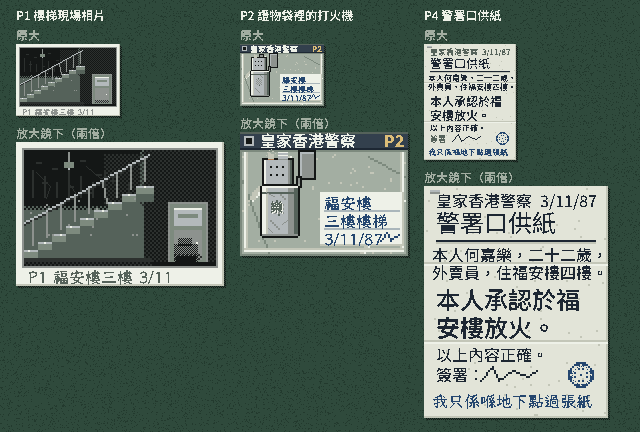
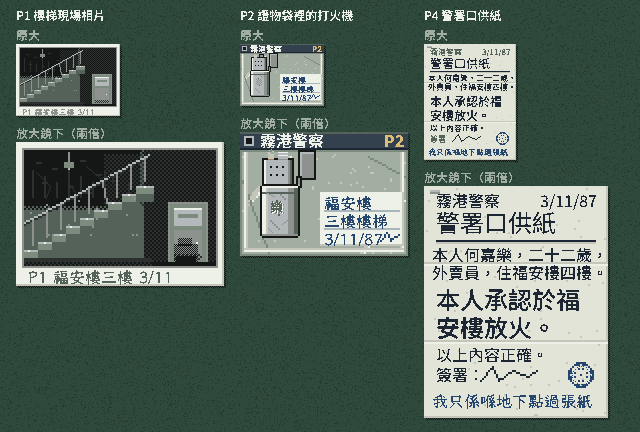
Replace real-world names with the fictional city's own
The story is set in the fictional city of 霧港, but the style frame
carried real institutions: the evidence bag and the confession were
printed "Royal Hong Kong Police", and the court emblem was the British
royal arms. They now read 霧港警察, and the emblem is the city court's
own seal: a lighthouse over waves between olive branches.

docs/06-art.md section 8 and CLAUDE.md now forbid real place names,
institutions and emblems on screen, so this does not recur.

Claude-Session: https://claude.ai/code/session_01Hit9pwhxA19ACKMzXL3iGE

diff --git a/art/style-frame/frame.js b/art/style-frame/frame.js
@@ -220,26 +220,26 @@ function drawClock(ctx, cx, cy) {
   P.px(ctx, cx - 5, cy - 5, C.white);
 }
 
-// 法官席上方的皇家徽章：盾、冠、兩隻扶盾獸、絲帶。
+// 法官席上方的霧港法院徽章：圓章裡一座燈塔和海浪，兩邊橄欖枝，下面一條絲帶。
+// 故事在虛構的霧港，不用任何真實的國徽或皇家徽章。
 function drawArms(ctx, x, y) {
   sprite(ctx, x, y, [
-    '.........YYYYY.........',
-    '........YbYbYbY........',
-    '........YYYYYYY........',
-    '.WW.....bbbbbbb.....bb.',
-    'WWWw...bYYYbrrrb...bYYb',
-    '.WWWw..bYYYbrrrb..bYYb.',
-    '..WWww.bbbbbbbbb.bYYYb.',
-    '..WwWw.bwwwbYYYb.bYbYb.',
-    '..W.Ww.bwwwbYYYb..YbYb.',
-    '..W..w.bwwwbYYYb..Y..Y.',
-    '..W..w..bwwbYYb...Y..Y.',
     '.........bbbbb.........',
-    '.bbYYYYYYYYYYYYYYYYYbb.',
-    'bYYbbbbbbbbbbbbbbbbYYb.',
-    '.bb.................bb.',
-  ], { Y: C.brass, b: C.brassDark, r: C.judgeRed, W: C.white, w: C.paperShade });
-  hline(ctx, x + 2, y + 12, 18, C.brassLight);
+    '.......bbYYYYYbb.......',
+    '......bYYYYWYYYYb......',
+    '.L...bYYYYWWWYYYYb...L.',
+    'LL..bYYYYYWkWYYYYYb..LL',
+    '.LL.bYYYYYWWWYYYYYb.LL.',
+    '..L.bYYYYYwWwYYYYYb.L..',
+    '.LL.bYYYYYwWwYYYYYb.LL.',
+    '..LLbYYYYwwWwwYYYYbLL..',
+    '...LbbYbbbbbbbbbYbbL...',
+    '....LbYYbYYbYYbYYbL....',
+    '.....bbYYYYYYYYYbb.....',
+    '.......bbbbbbbbb.......',
+    '.bbLLLLLLLLLLLLLLLLLbb.',
+    'bLLbbbbbbbbbbbbbbbbbLLb',
+  ], { Y: C.brass, b: C.brassDark, L: C.brassLight, W: C.white, w: C.paperShade, k: C.ink });
 }
 
 // 小人：法官。半月形眼鏡、假髮兩邊捲起、紅袍、白色領帶。

diff --git a/art/style-frame/evidence.js b/art/style-frame/evidence.js
@@ -168,13 +168,13 @@ export function bagP2(s) {
   p.hline(2, 58, 80, C.paperShade);
   p.hline(2, 59, 80, C.white);
   p.frame(0, 9, 84, 53, C.wall);
-  // 封口條：印著「證物」，左邊有個吊孔
+  // 封口條：印著「霧港警察」，左邊有個吊孔
   p.rect(0, 0, 84, 9, C.suit);
   p.hline(0, 0, 84, C.wallDark);
   p.hline(0, 8, 84, C.ink);
   p.rect(3, 3, 3, 3, C.black);
   p.frame(2, 2, 5, 5, C.metal);
-  p.text('皇家香港警察', 10, 0, { size: 8, weight: 500, color: C.white, threshold: 90 });
+  p.text('霧港警察', 10, 0, { size: 8, weight: 500, color: C.white, threshold: 90 });
   p.text('P2', 72, 0, { size: 8, weight: 700, color: C.brassLight, threshold: 90 });
 
   // 標籤：手寫的地點和日期
@@ -263,7 +263,7 @@ export function confessionP4(s) {
   p.hline(3, 3, 5, C.grey);
   // 印好的表格
   const small = { size: 8, color: C.wallDark, threshold: 90 };
-  p.text('皇家香港警察', 6, 3, small, { color: C.ink, threshold: 110 });
+  p.text('霧港警察', 6, 3, small, { color: C.ink, threshold: 110 });
   p.text('3/11/87', 58, 3, small, { color: C.ink, threshold: 110 });
   p.text('警署口供紙', 6, 12, { size: 12, weight: 400, color: C.ink, threshold: 120 });
   p.hline(6, 27, 80, C.ink);

diff --git a/art/style-frame/index.html b/art/style-frame/index.html
@@ -20,7 +20,7 @@ import { drawFrame } from './frame.js';
 
 // 先載入畫面上的字，再畫；然後按螢幕實際像素找最大的整數倍顯示。
 const text = '偵緝督察鄭志雄（控方）起火點在三樓樓梯地下門腳都有黑痕？打火機在起火點找到，刻著「樂」字火石平、棉芯乾，點著？被告簽署口供，承認放火佢只係喺地下點過紙？鄭督察……我唔記得。證物對照須知退庭信疑三樓樓梯P2P11/'
-  + '皇家香港警察3/11/87警署口供紙本人何嘉樂，二十二歲，外賣員，住福安樓四樓。本人承認於福安樓放火。以上內容正確。簽署：我只係喺地下點過張紙';
+  + '霧港警察3/11/87警署口供紙本人何嘉樂，二十二歲，外賣員，住福安樓四樓。本人承認於福安樓放火。以上內容正確。簽署：我只係喺地下點過張紙';
 await Promise.allSettled(['400 12px "Noto Sans TC"', '500 13px "Noto Sans TC"', '700 12px "Noto Sans TC"', '700 12px "LXGW WenKai TC"'].map((f) => document.fonts.load(f, text)));
 const canvas = drawFrame(document.getElementById('frame'));
 const fit = () => {

diff --git a/art/style-frame/evidence.html b/art/style-frame/evidence.html
@@ -21,7 +21,7 @@ import { PAL as C } from '../../prototype/desk/art.js';
 import { EVIDENCE } from './evidence.js';
 
 // 證物樣板：每件證物上面是原大（放在桌上的樣子），下面是放大鏡看到的兩倍。
-const text = '皇家香港警察證物P2福安樓三樓3/11/87樓梯現場相片P1警署口供紙本人何嘉樂，二十二歲，外賣員，住福安樓四樓。本人承認於福安樓放火。以上內容正確。簽署：我只係喺地下點過張紙證物袋裡的打火機原大放大鏡下（兩倍）';
+const text = '霧港警察證物P2福安樓三樓3/11/87樓梯現場相片P1警署口供紙本人何嘉樂，二十二歲，外賣員，住福安樓四樓。本人承認於福安樓放火。以上內容正確。簽署：我只係喺地下點過張紙證物袋裡的打火機原大放大鏡下（兩倍）';
 await Promise.allSettled(['400 12px "Noto Sans TC"', '500 12px "Noto Sans TC"', '700 12px "Noto Sans TC"', '700 12px "LXGW WenKai TC"'].map((f) => document.fonts.load(f, text)));
 
 const canvas = document.getElementById('frame');

diff --git a/docs/06-art.md b/docs/06-art.md
@@ -90,6 +90,7 @@
 - 不用平滑的字。
 - 除了第 2 節的例外，不用非整數放大。
 - 畫面上不出現數值、分數、剔號或交叉。
+- 畫面上不出現真實世界的地名、機構和徽章（例如「香港」「皇家香港警察」、英國的皇家徽章）。故事在虛構的霧港，一律用虛構的名字：霧港、霧港警察、《霧港日報》。
 - 系統開了「減少動態」時，蓋章不震。
 
 ## 9. 流程
@@ -111,7 +112,7 @@
 這一版定下來的做法：
 
 - **人像：** 逐行定好皮膚的範圍，光從左上方來，分四級皮膚色；五官逐點放。背景用牆色，黑頭髮和深色西裝才分得開。為了皮膚的亮位，調色盤用 `#eec7a1` 取代了和金屬色太接近的證物袋灰，仍然是 32 色。
-- **法庭：** 法官是焦點：頭上有皇家徽章，背後是雕花高背椅，紅袍配白色領帶。大律師背向我們坐，椅背在我們這邊。
+- **法庭：** 法官是焦點：頭上是霧港法院的徽章（燈塔和海浪），背後是雕花高背椅，紅袍配白色領帶。大律師背向我們坐，椅背在我們這邊。
 - **證物袋：** 不透明的淺灰綠，加反光和摺痕。用網點做透明試過，會變成一格格的紗窗。
 - **陰影：** 全部向右下，用網點；拿起來的東西，影子離得遠一點。
 - **字：** 名牌和筆記本抬頭用字重 400（見第 4 節）。
@@ -125,5 +126,5 @@
 `art/style-frame/evidence.png` 是三件證物的樣板：上面是放在桌上的原大，下面是放大鏡下的兩倍。證物由 `art/style-frame/evidence.js` 畫，尺寸和細節位置都寫在裡面的 `EVIDENCE` 表，量產時連細節位置一起搬進遊戲。
 
 - **相片：** 黑白，煙薰的牆、燒彎的欄杆、白邊上的鉛筆字；門腳的黑痕放大才看得清。
-- **證物袋：** 封口條印著「皇家香港警察」，手寫標籤寫地點和日期；打火機的蓋翻開，火石輪和乾掉的棉芯放大才看得清。打火機和標籤分開放，互不遮擋，所以細節位置和現在遊戲裡的不同。
+- **證物袋：** 封口條印著「霧港警察」，手寫標籤寫地點和日期；打火機的蓋翻開，火石輪和乾掉的棉芯放大才看得清。打火機和標籤分開放，互不遮擋，所以細節位置和現在遊戲裡的不同。
 - **口供紙：** 印好的表頭、打字的內容、摺成三份的摺痕、簽名、警署的圓印；頁底的手寫字放大才讀得出。

diff --git a/CLAUDE.md b/CLAUDE.md
@@ -28,5 +28,6 @@
 ## 規則
 
 - 每個系統都要過一關：它令蓋章更難，還是更重？兩樣都不是，就不做。
+- 故事在虛構的霧港：畫面上不寫真實的地名、機構和徽章（不寫「香港」「皇家」），用霧港、霧港警察、《霧港日報》這類虛構的名字。
 - 美術照 `docs/06-art.md`：32 色、480×270 按整數倍放大、不旋轉、不用平滑的透明和漸變、紅色只表示矛盾和「不予採納」。
 - 改了 `case.js` 或 `engine.js`，要跑測試；改了畫面，要在瀏覽器實際玩一次。
